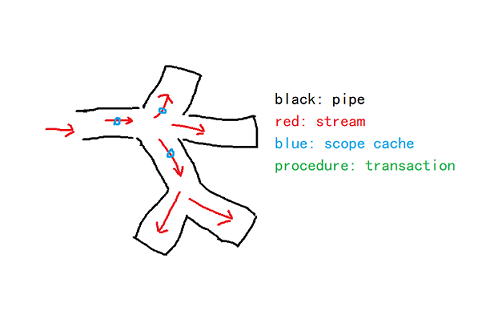
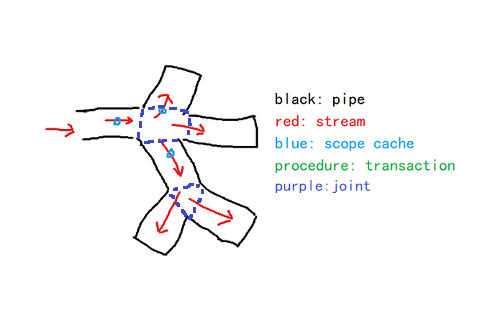
#update: trival

diff --git a/docs/c++/pipeline.md b/docs/c++/pipeline.md
@@ -18,10 +18,14 @@ add<int, pipe, pipeFunc<int>, pipeFunc<int>>([](stream<int>* aInput){  //the sec
          "before", "pipe1", //inject this pipe before the target pipe, it will be executed on the same thread of the target pipe
          "after", "pipe2", //work like "before"
          "around", "pipe3" //work like "before", replace the function of this pipe
+         "befored", "pipe4",  //inject the target pipe before this pipe, the target pipe will be executed on the same thread of this pipe
+         "aftered", "pipe5"  //work like "befored"
     ))
 
-topo result: pipe... -> pipe3(pipe0) -> pipe1 -> pipe...
-             pipe... -> pipe2 -> pipe3(pipe0) -> pipe...
+topo result: pipe0' = pipe4 -> pipe0 -> pipe5
+             pipe... -> pipe0' -> pipe1 -> pipe...
+             pipe... -> pipe2 -> pipe0' -> pipe...
+             pipe... -> pipe3(replaced by pipe0') ->pipe...
 ```  
 </br>
 

diff --git a/docs/index.md b/docs/index.md
@@ -18,6 +18,7 @@
 * stream: a data wrapper which is transported in the pipes  
 * scope cache: a cache data which based on some streams or all the streams  
 * transaction: a procedure which denotes the start trig from one pipe and the ends of all its related activative pipes  
+* joint: the aspects could be injected between two pipes  
 <center><p>![avatar](img/rea.png)</p></center>
 </br>
 
